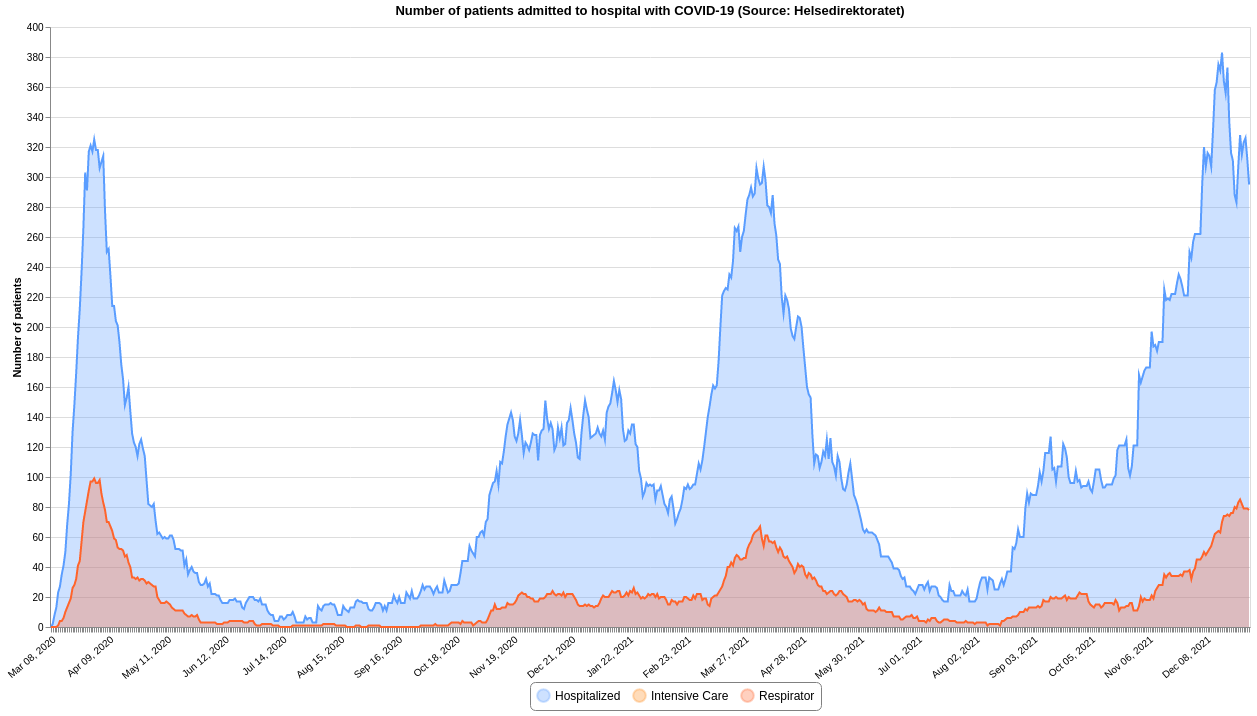
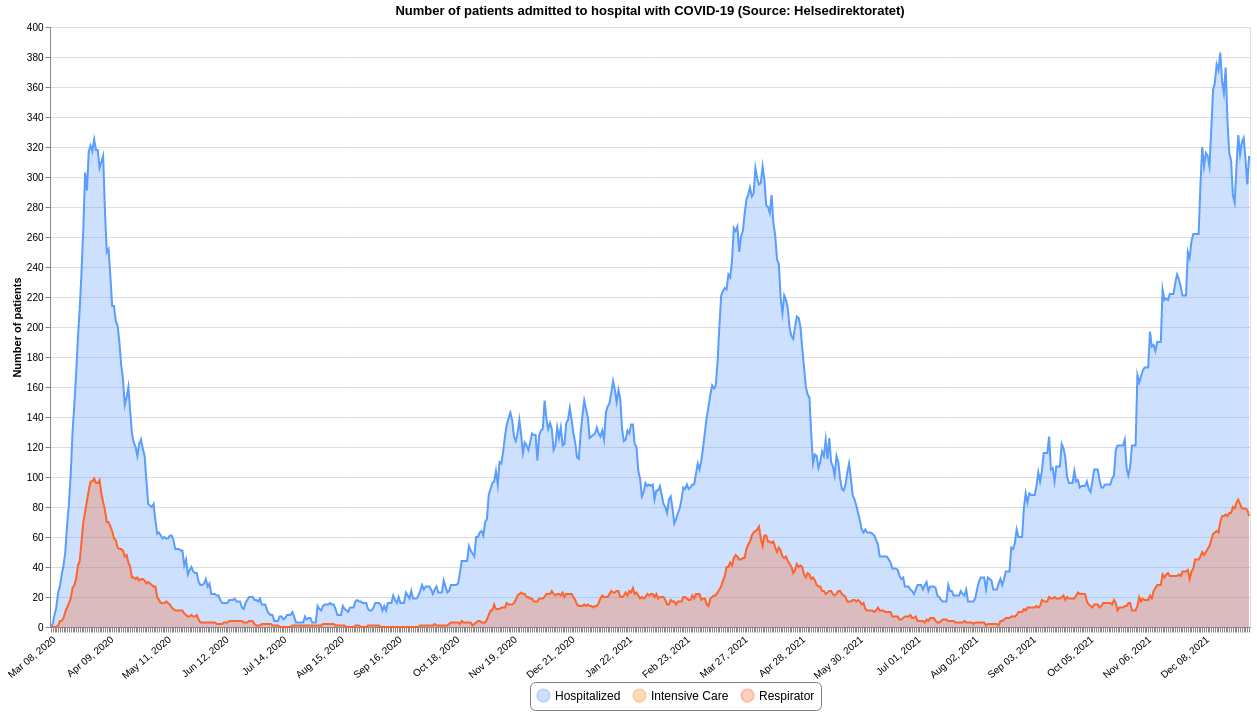
Updated 2022-01-02 12:50

diff --git a/README.md b/README.md
@@ -12,7 +12,7 @@ This repository contains datasets of daily time-series data related to COVID-19 
 | :--- | :--- | :--- | :--- | :--- |
 |[Confirmed](#confirmedcsv)|FHI / MSIS|2022-01-02 00:20:51+01:00|[<center>csv</center>](https://raw.githubusercontent.com/frefrik/covid19norge-data/main/data/confirmed.csv)|[<center>preview</center>](data/confirmed.csv)|
 |[Dead](#deadcsv)|FHI|2021-12-31 13:20:59+01:00|[<center>csv</center>](https://raw.githubusercontent.com/frefrik/covid19norge-data/main/data/dead.csv)|[<center>preview</center>](data/dead.csv)|
-|[Hospitalized](#hospitalizedcsv)|Helsedirektoratet|2022-01-01 13:50:49+01:00|[<center>csv</center>](https://raw.githubusercontent.com/frefrik/covid19norge-data/main/data/hospitalized.csv)|[<center>preview</center>](data/hospitalized.csv)|
+|[Hospitalized](#hospitalizedcsv)|Helsedirektoratet|2022-01-02 12:50:46+01:00|[<center>csv</center>](https://raw.githubusercontent.com/frefrik/covid19norge-data/main/data/hospitalized.csv)|[<center>preview</center>](data/hospitalized.csv)|
 |[Tested](#testedcsv)|FHI|2021-12-31 13:10:50+01:00|[<center>csv</center>](https://raw.githubusercontent.com/frefrik/covid19norge-data/main/data/tested.csv)|[<center>preview</center>](data/tested.csv)|
 |[Tested Lab](#tested_labcsv)|FHI|2021-12-31 13:20:55+01:00|[<center>csv</center>](https://raw.githubusercontent.com/frefrik/covid19norge-data/main/data/tested_lab.csv)|[<center>preview</center>](data/tested_lab.csv)|
 |[Transport](#transportcsv)|FHI|2021-09-24 23:10:46+02:00|[<center>csv</center>](https://raw.githubusercontent.com/frefrik/covid19norge-data/main/data/transport.csv)|[<center>preview</center>](data/transport.csv)|
